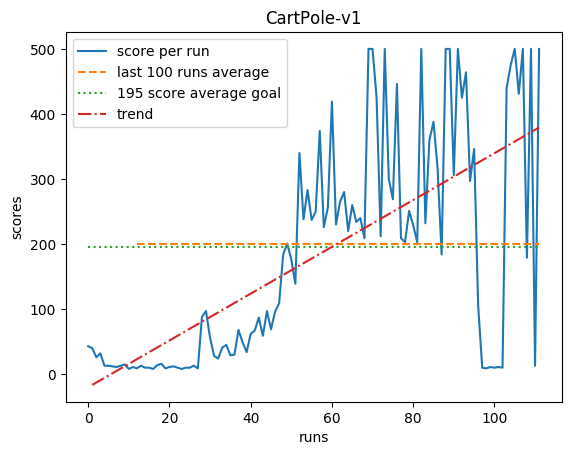
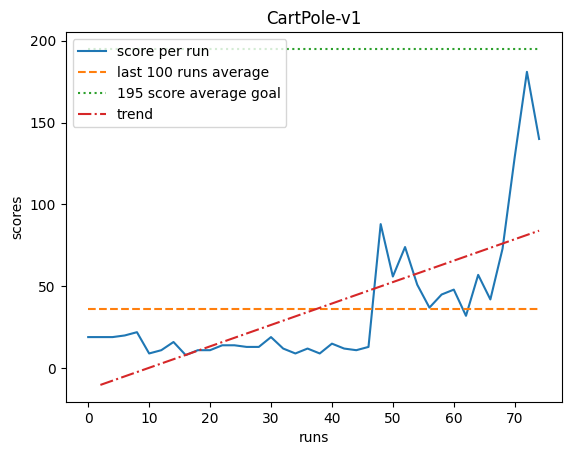
Update to the modern framework
Please note that the fixes I've implemented are for demonstration purposes I have in a presentation, so the solution is not the perfect one. Currently I haven't put much effort for that

diff --git a/cartpole.py b/cartpole.py
@@ -1,5 +1,5 @@
 import random
-import gym
+import gymnasium
 import numpy as np
 from collections import deque
 from keras.models import Sequential
@@ -61,28 +61,34 @@ class DQNSolver:
 
 
 def cartpole():
-    env = gym.make(ENV_NAME)
+    env = gymnasium.make(ENV_NAME)
     score_logger = ScoreLogger(ENV_NAME)
     observation_space = env.observation_space.shape[0]
     action_space = env.action_space.n
     dqn_solver = DQNSolver(observation_space, action_space)
     run = 0
-    while True:
+
+    ROUNDS = 100
+    for i in range(ROUNDS):
         run += 1
-        state = env.reset()
+        state = env.reset()[0]
+        # print([1, observation_space])
+        # print(state)
         state = np.reshape(state, [1, observation_space])
         step = 0
         while True:
             step += 1
             #env.render()
             action = dqn_solver.act(state)
-            state_next, reward, terminal, info = env.step(action)
-            reward = reward if not terminal else -reward
+            # print(env.step(action))
+            state_next, reward, terminated, truncated, info = env.step(action)
+            reward = reward if not terminated else -reward
             state_next = np.reshape(state_next, [1, observation_space])
-            dqn_solver.remember(state, action, reward, state_next, terminal)
+            dqn_solver.remember(state, action, reward, state_next, terminated)
             state = state_next
-            if terminal:
-                print "Run: " + str(run) + ", exploration: " + str(dqn_solver.exploration_rate) + ", score: " + str(step)
+            if terminated:
+                print("RUN: ", i)
+                print ("Run: " + str(run) + ", exploration: " + str(dqn_solver.exploration_rate) + ", score: " + str(step))
                 score_logger.add_score(step, run)
                 break
             dqn_solver.experience_replay()

diff --git a/scores/score_logger.py b/scores/score_logger.py
@@ -38,10 +38,10 @@ class ScoreLogger:
                        show_legend=True)
         self.scores.append(score)
         mean_score = mean(self.scores)
-        print "Scores: (min: " + str(min(self.scores)) + ", avg: " + str(mean_score) + ", max: " + str(max(self.scores)) + ")\n"
+        print ("Scores: (min: " + str(min(self.scores)) + ", avg: " + str(mean_score) + ", max: " + str(max(self.scores)) + ")\n")
         if mean_score >= AVERAGE_SCORE_TO_SOLVE and len(self.scores) >= CONSECUTIVE_RUNS_TO_SOLVE:
             solve_score = run-CONSECUTIVE_RUNS_TO_SOLVE
-            print "Solved in " + str(solve_score) + " runs, " + str(run) + " total runs."
+            print ("Solved in " + str(solve_score) + " runs, " + str(run) + " total runs.")
             self._save_csv(SOLVED_CSV_PATH, solve_score)
             self._save_png(input_path=SOLVED_CSV_PATH,
                            output_path=SOLVED_PNG_PATH,
@@ -60,8 +60,14 @@ class ScoreLogger:
             reader = csv.reader(scores)
             data = list(reader)
             for i in range(0, len(data)):
-                x.append(int(i))
-                y.append(int(data[i][0]))
+                # print(i)
+                # print(len(data))
+                print(data)
+                if(len(data[i]) > 0):
+                    x.append(int(i))
+                    y.append(int(data[i][0]))
+                else:
+                    print("Missing data")
 
         plt.subplots()
         plt.plot(x, y, label="score per run")
